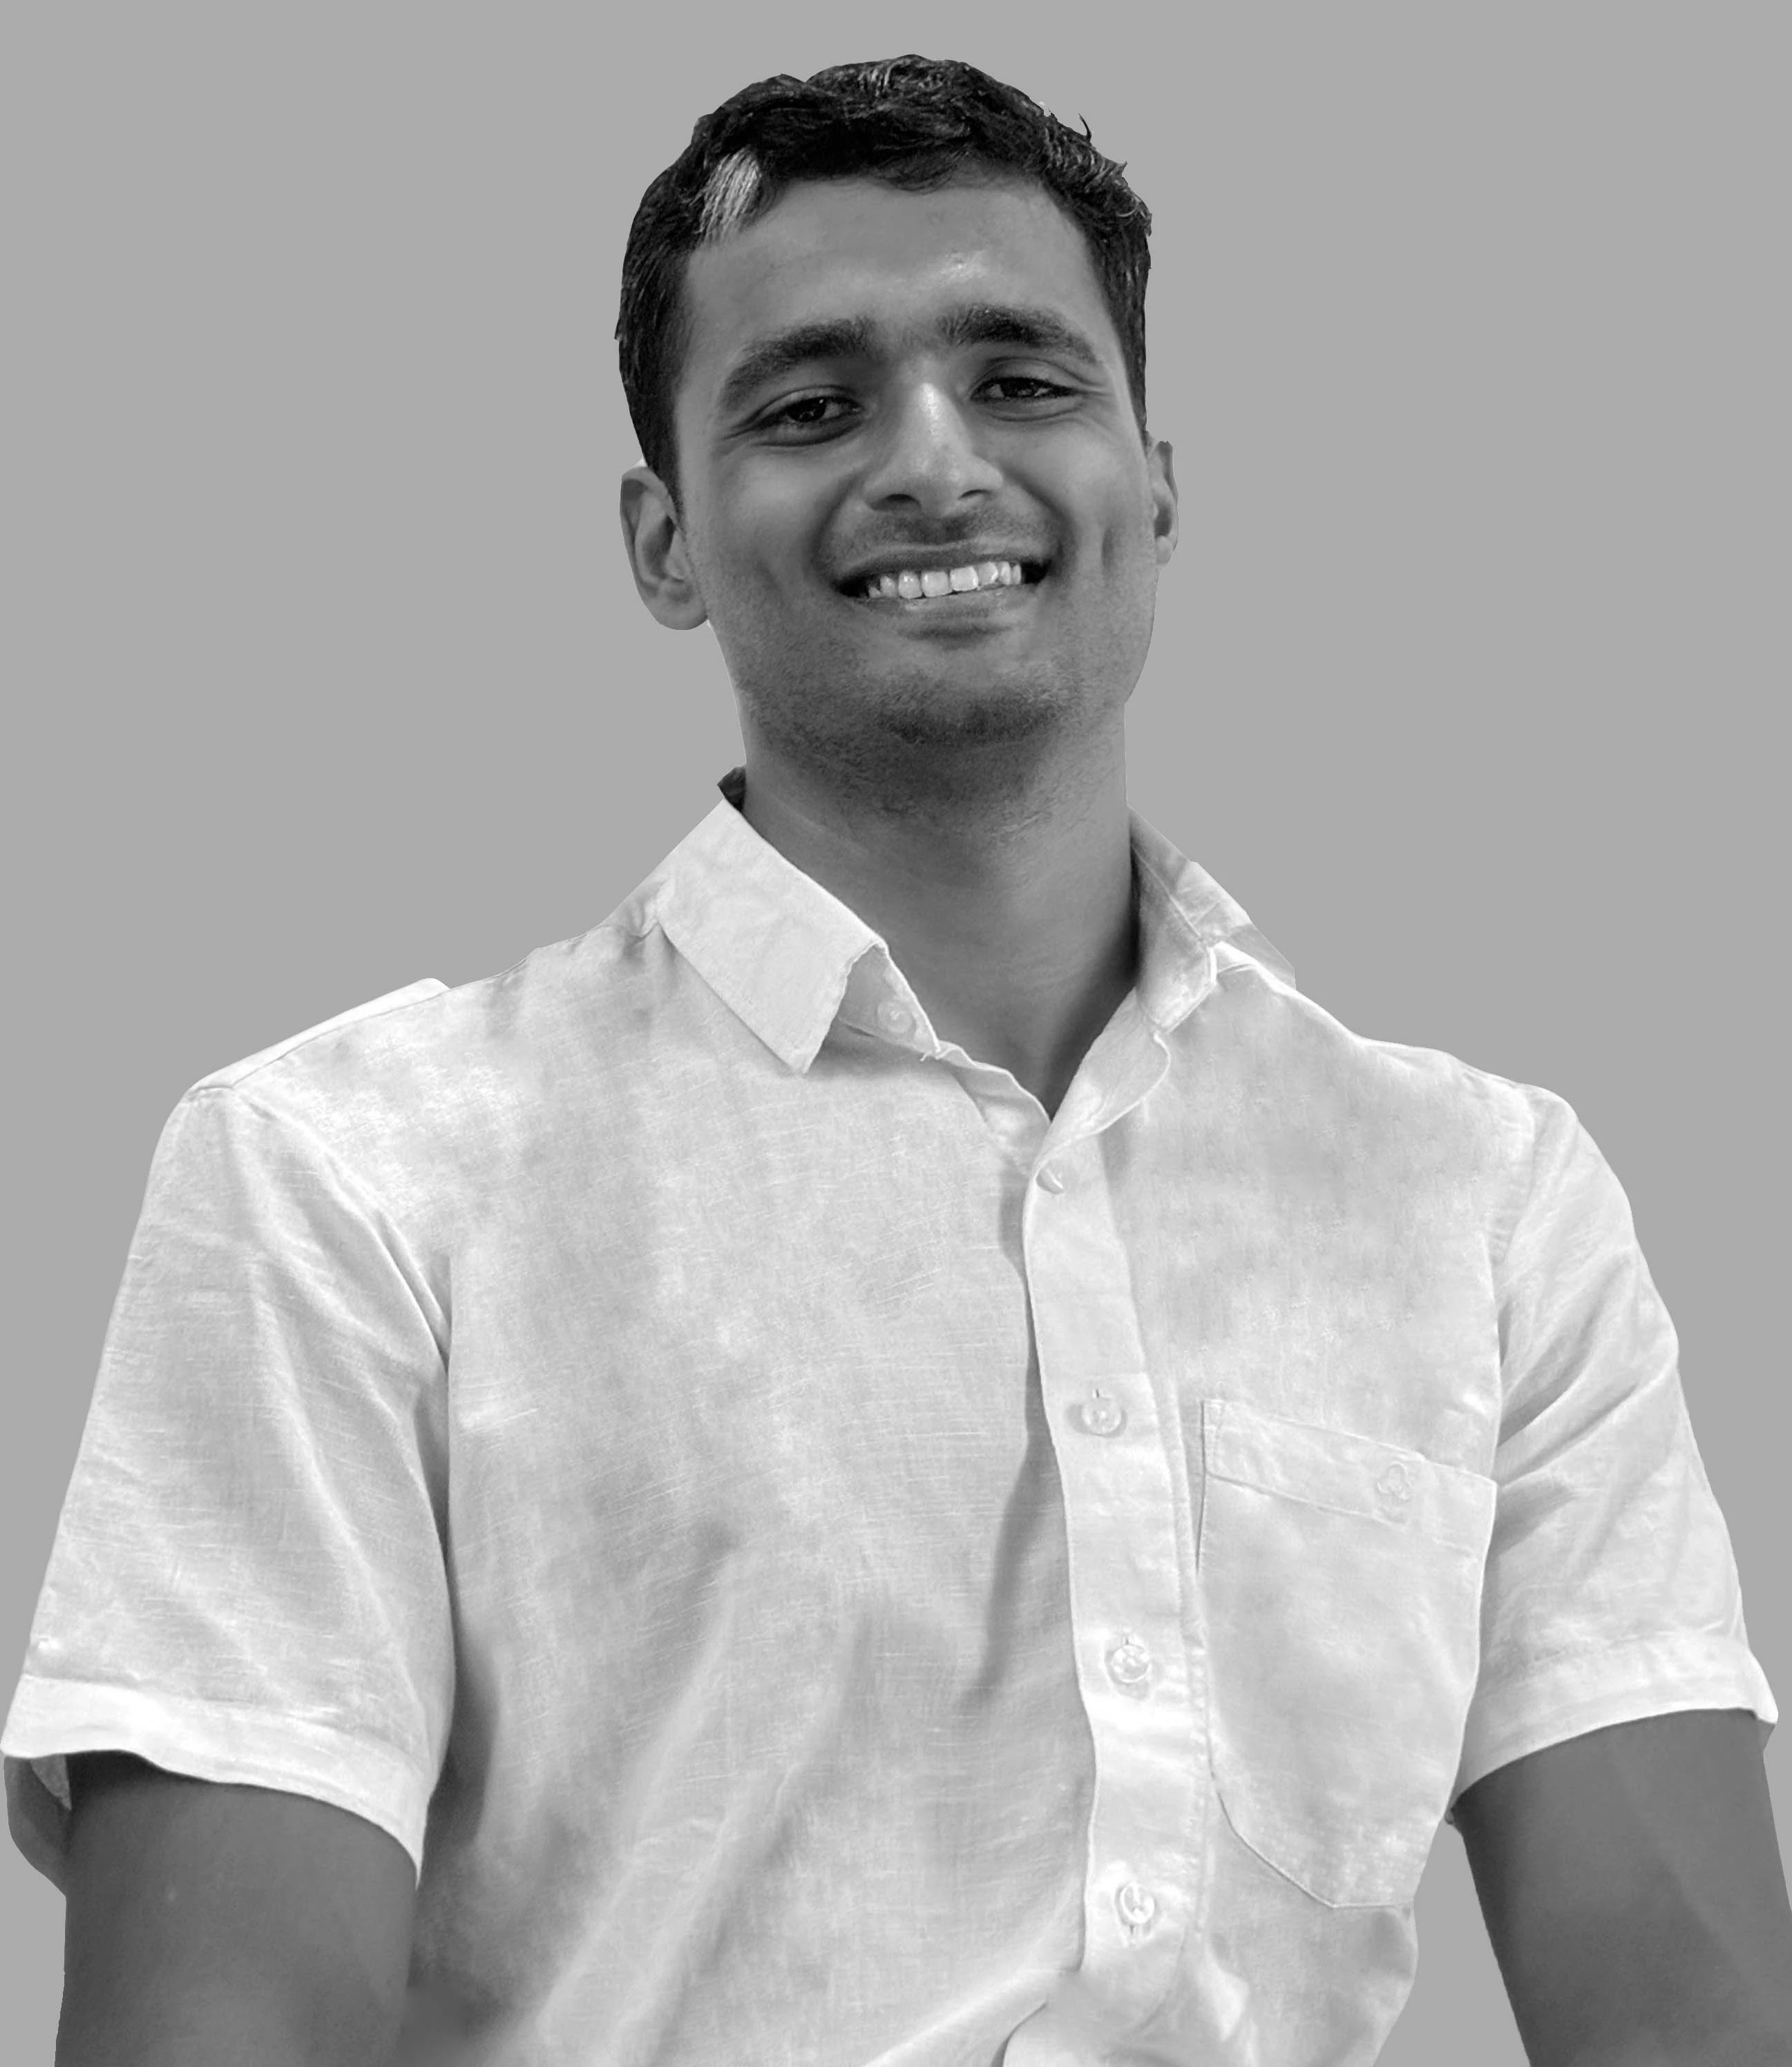
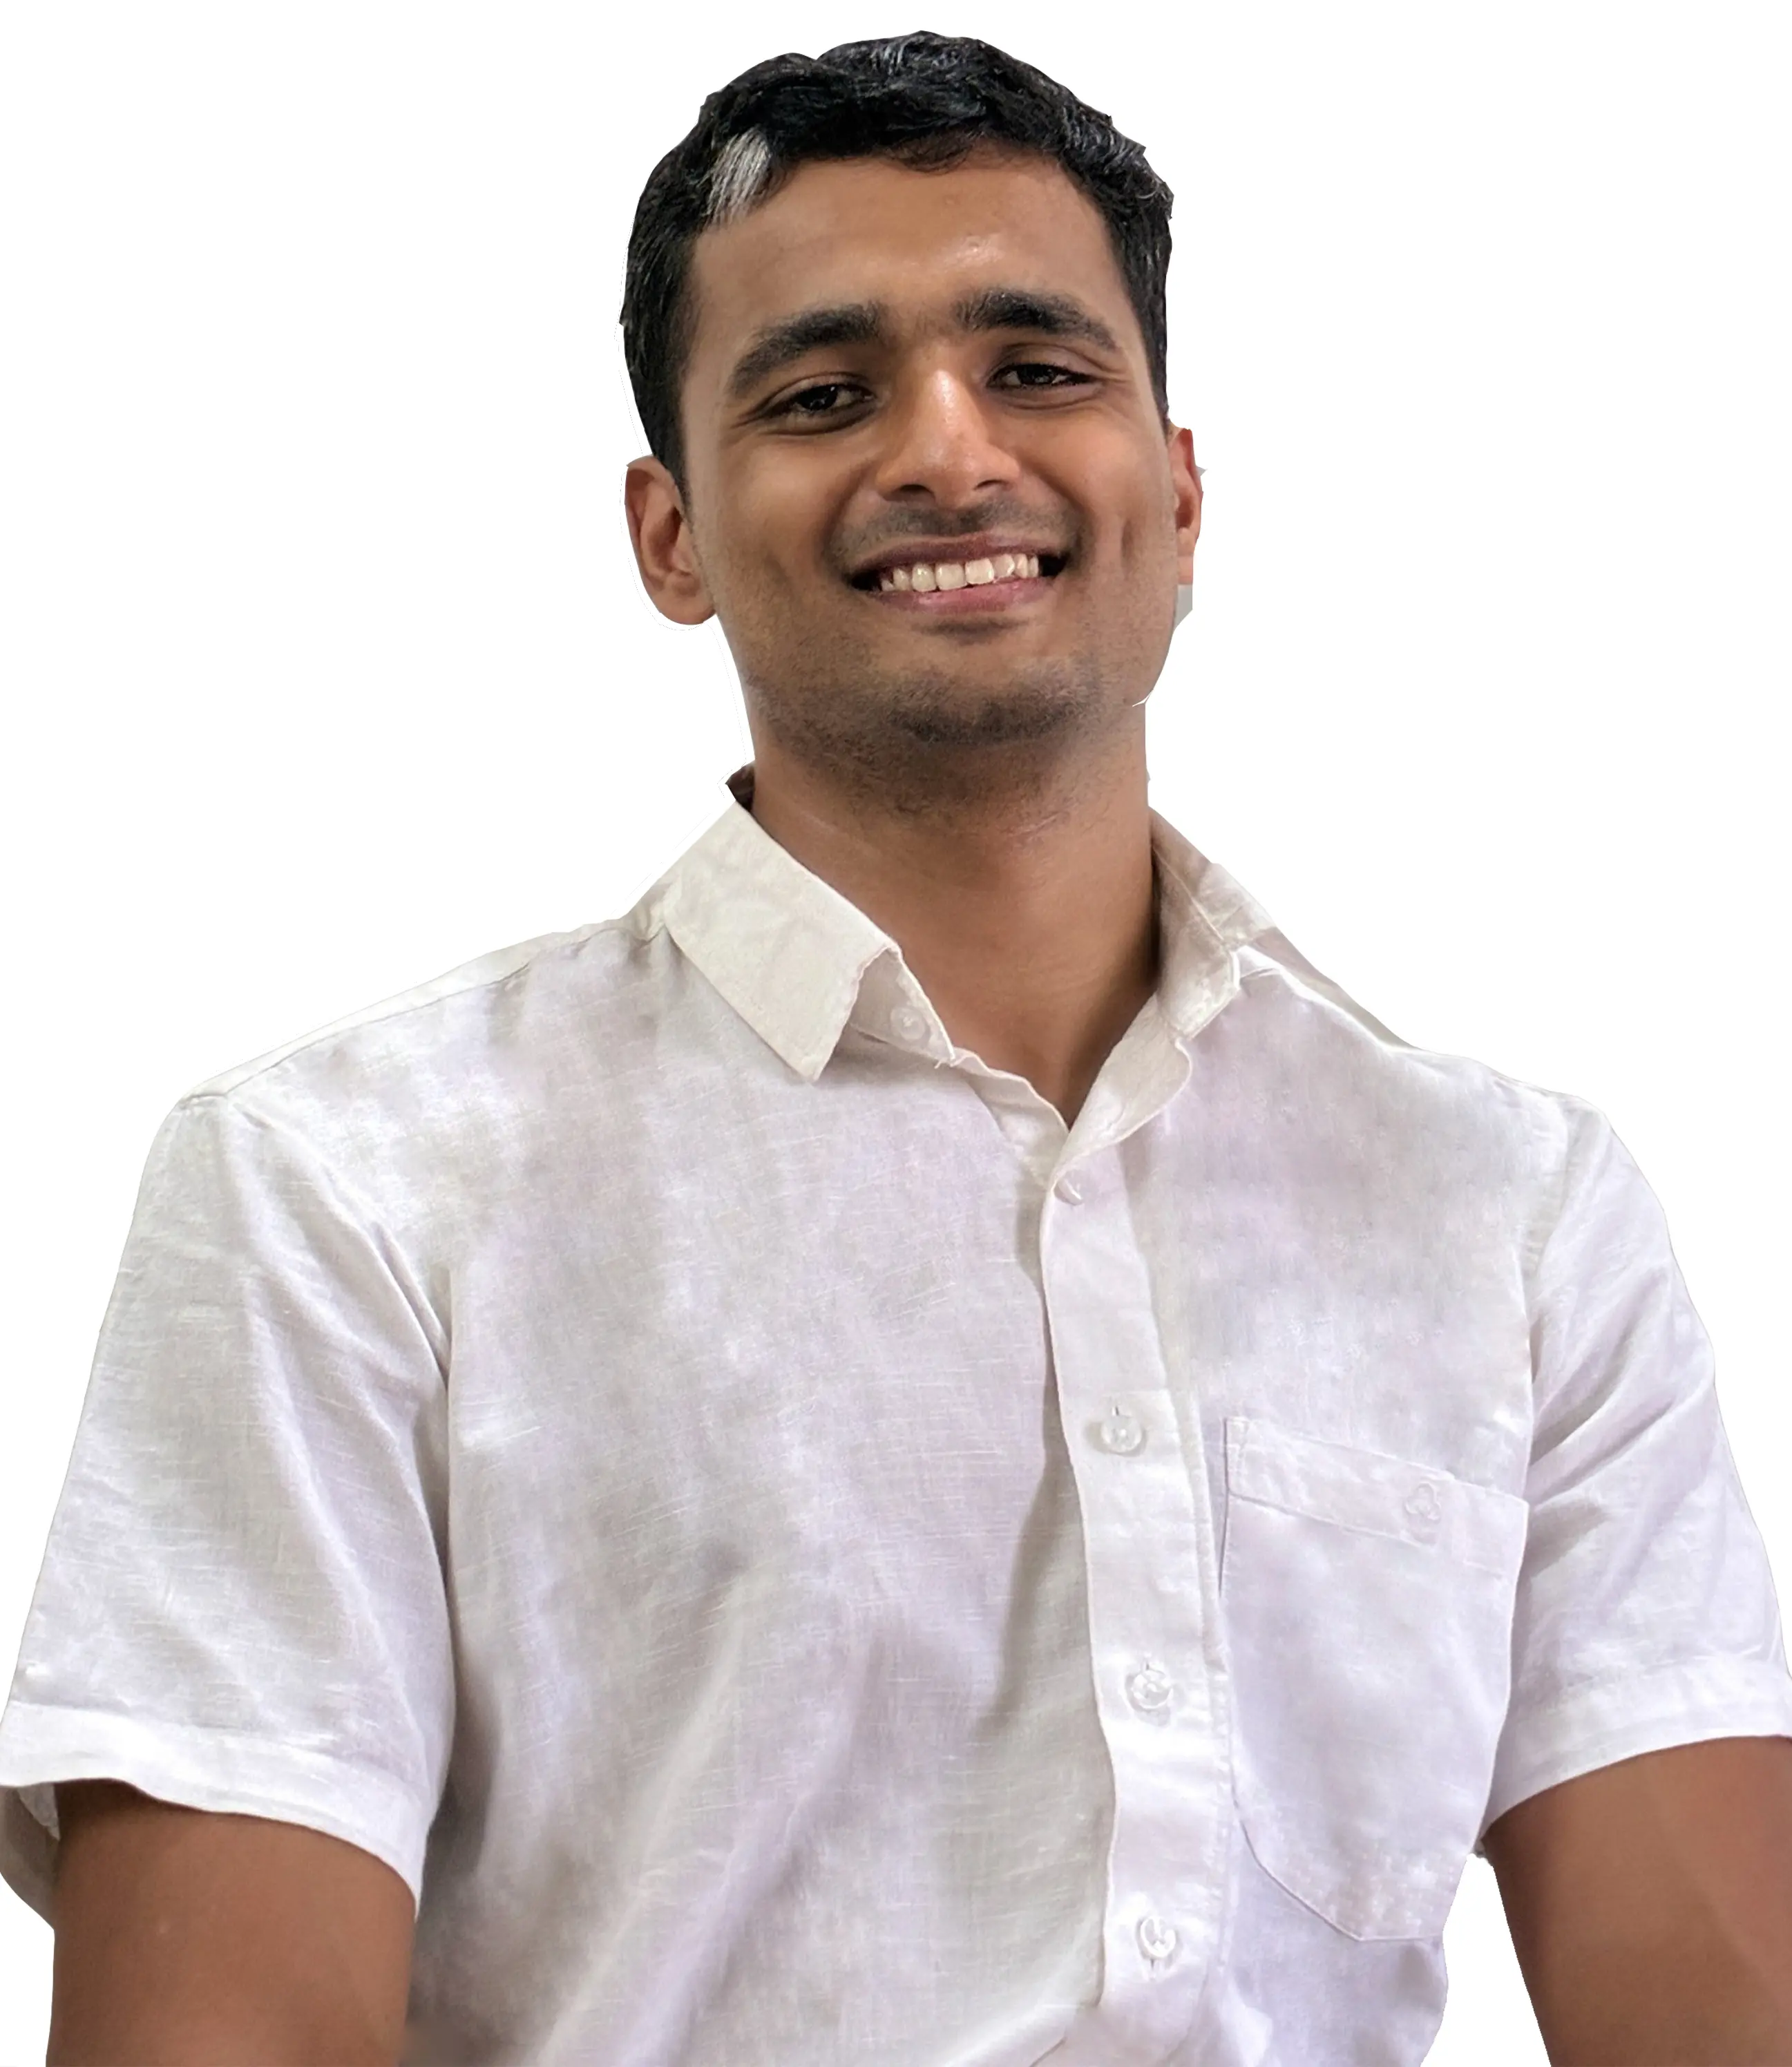
2

diff --git a/about.html b/about.html
@@ -12,7 +12,7 @@
       <div class="layout">
         <div class="left">
           <figure class="profile">
-            <img src="./assets/Profile.png" class="profile-photo" alt="Profile photo" />
+            <img src="./assets/Profile.webp" class="profile-photo" alt="Profile photo" />
           </figure><br></br>
           <p class="lead">Rajat Yelikar</p></br>
           <p class="lead">Ideas made tangible.<br>Reduce complex visions down to their absolute, raw essence.</br> No noise, no excess; just clean lines, deliberate choices, and the harmony of functional art.</p>